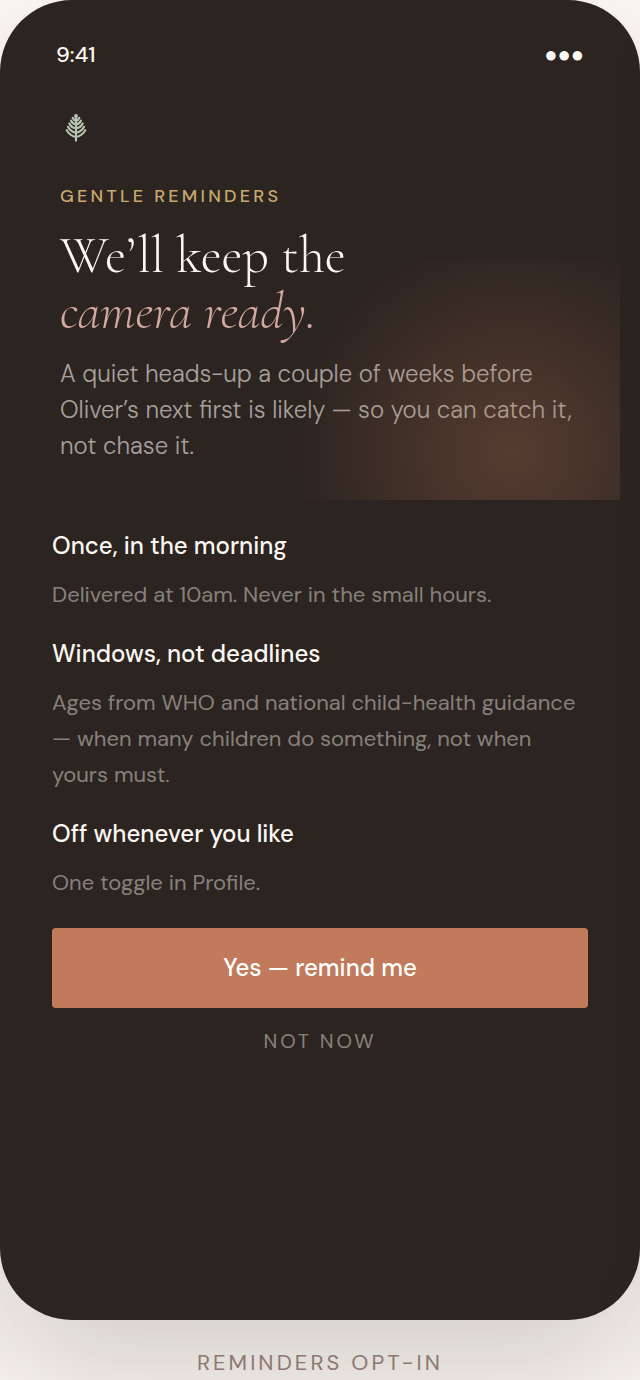
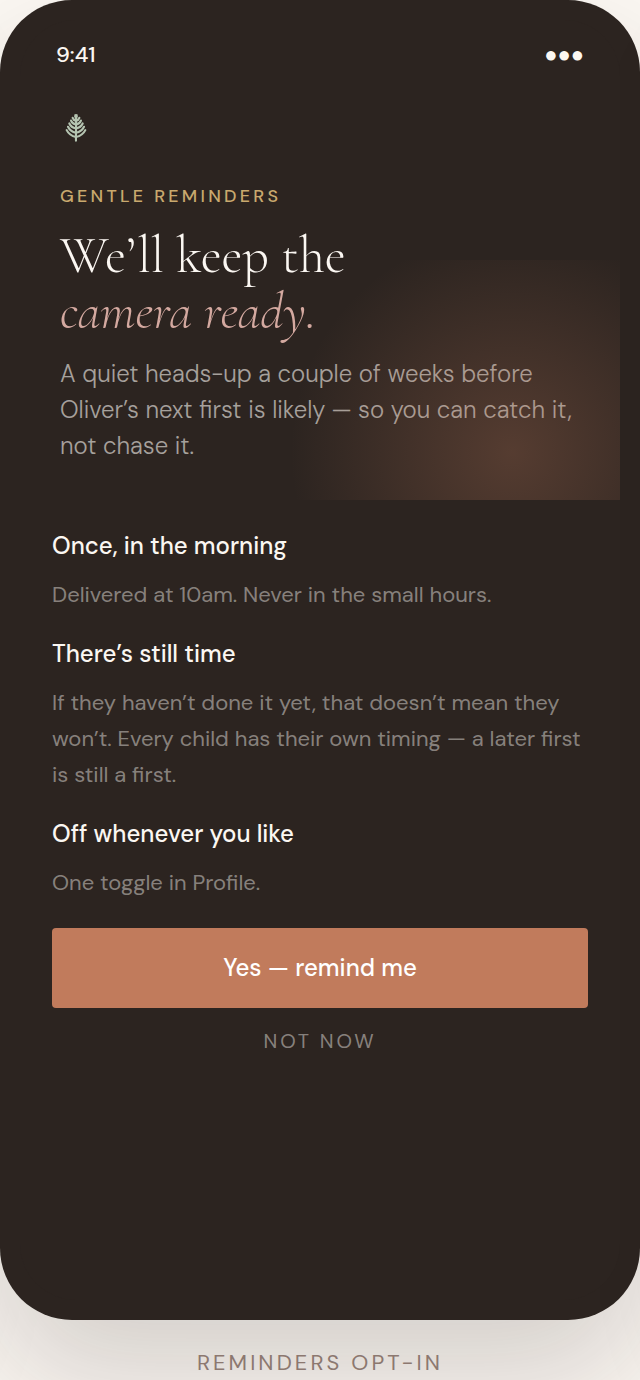
Soften reminders copy: a later first is still a first
Replace “Windows, not deadlines” with plain reassurance — if it hasn’t happened yet, that doesn’t mean it won’t.

Changed region(s): [[0.0625, 0.4674, 0.9062, 0.592]]

diff --git a/mobile/mockups/milestone-notifications.html b/mobile/mockups/milestone-notifications.html
@@ -306,7 +306,7 @@
             </div>
             <div class="point">
               <div class="ico"><svg class="line" viewBox="0 0 24 24"><path d="M12 21.5c-.2-5 .3-10.5 0-18"/><path d="M12 18.8c-3.6-.8-5.8-2.8-7-5.2"/><path d="M12 18.8c3.6-.8 5.8-2.8 7-5.2"/><path d="M12 15.6c-3.2-.7-5-2.4-6-4.5"/><path d="M12 15.6c3.2-.7 5-2.4 6-4.5"/><path d="M12 12.4c-2.6-.6-4.2-2-5-3.8"/><path d="M12 12.4c2.6-.6 4.2-2 5-3.8"/><path d="M12 9.4c-2-.5-3.2-1.6-3.7-3"/><path d="M12 9.4c2-.5 3.2-1.6 3.7-3"/><path d="M12 6.6c-1.4-.4-2.2-1.2-2.5-2.2"/><path d="M12 6.6c1.4-.4 2.2-1.2 2.5-2.2"/><path d="M12 4.4c-.6-.6-.8-1.3-.5-2"/><path d="M12 4.4c.6-.6.8-1.3.5-2"/></svg></div>
-              <div><div class="pt">Windows, not deadlines</div><div class="pd">Ages from WHO and national child-health guidance — when many children do something, not when yours must.</div></div>
+              <div><div class="pt">There’s still time</div><div class="pd">If they haven’t done it yet, that doesn’t mean they won’t. Every child has their own timing — a later first is still a first.</div></div>
             </div>
             <div class="point">
               <div class="ico"><svg class="line" viewBox="0 0 24 24"><circle cx="12" cy="12" r="9"/><path d="M15 9l-6 6M9 9l6 6"/></svg></div>

diff --git a/mobile/mockups/all-screens.html b/mobile/mockups/all-screens.html
@@ -307,8 +307,8 @@
         <div class="pad">
           <p style="font-size:12px;font-weight:500;color:var(--cream);margin-bottom:4px">Once, in the morning</p>
           <p style="font-size:11px;color:rgba(251,247,242,.45);margin-bottom:12px">Delivered at 10am. Never in the small hours.</p>
-          <p style="font-size:12px;font-weight:500;color:var(--cream);margin-bottom:4px">Windows, not deadlines</p>
-          <p style="font-size:11px;color:rgba(251,247,242,.45);margin-bottom:12px">Ages from WHO and national child-health guidance — when many children do something, not when yours must.</p>
+          <p style="font-size:12px;font-weight:500;color:var(--cream);margin-bottom:4px">There’s still time</p>
+          <p style="font-size:11px;color:rgba(251,247,242,.45);margin-bottom:12px">If they haven’t done it yet, that doesn’t mean they won’t. Every child has their own timing — a later first is still a first.</p>
           <p style="font-size:12px;font-weight:500;color:var(--cream);margin-bottom:4px">Off whenever you like</p>
           <p style="font-size:11px;color:rgba(251,247,242,.45);margin-bottom:14px">One toggle in Profile.</p>
           <div class="btn">Yes — remind me</div>

diff --git a/mobile/app/reminders.tsx b/mobile/app/reminders.tsx
@@ -69,8 +69,8 @@ export default function RemindersOptIn() {
         <Point icon="notifications-outline" title="Once, in the morning">
           Delivered at 10am. Never in the small hours. Never a checklist alarm.
         </Point>
-        <Point icon="time-outline" title="Windows, not deadlines">
-          Ages from WHO and national child-health guidance — when many children do something, not when yours must.
+        <Point icon="time-outline" title="There’s still time">
+          If they haven’t done it yet, that doesn’t mean they won’t. Every child has their own timing — a later first is still a first.
         </Point>
         <Point icon="close-circle-outline" title="Off whenever you like">
           One toggle in Profile. Capturing a first cancels its reminder.
